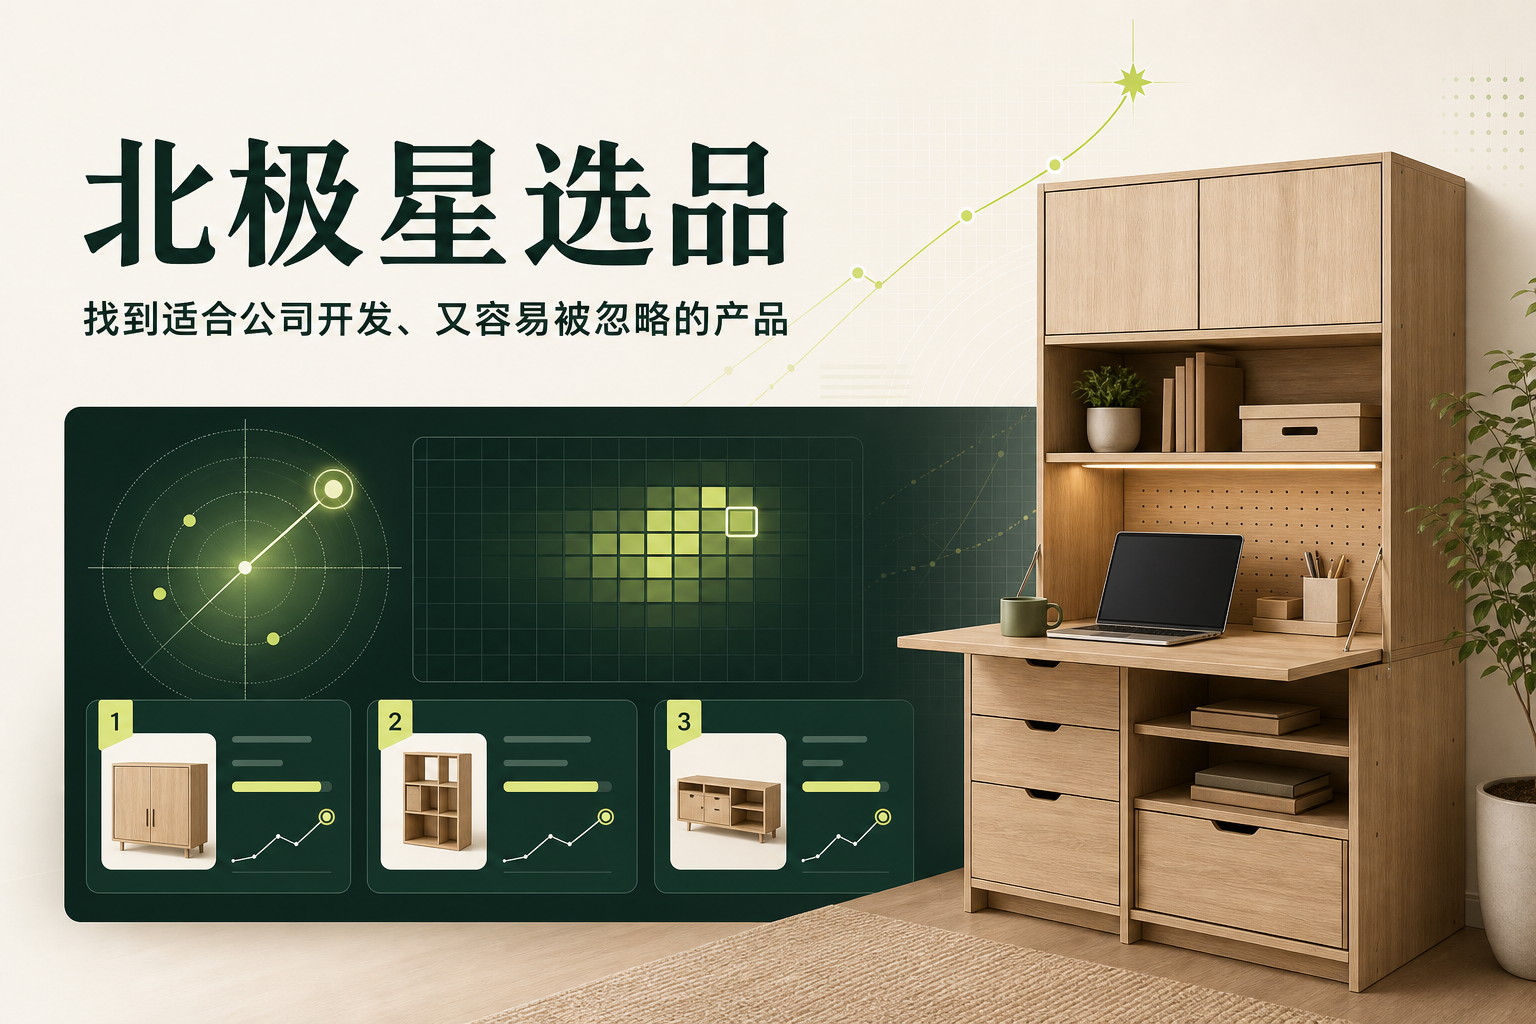
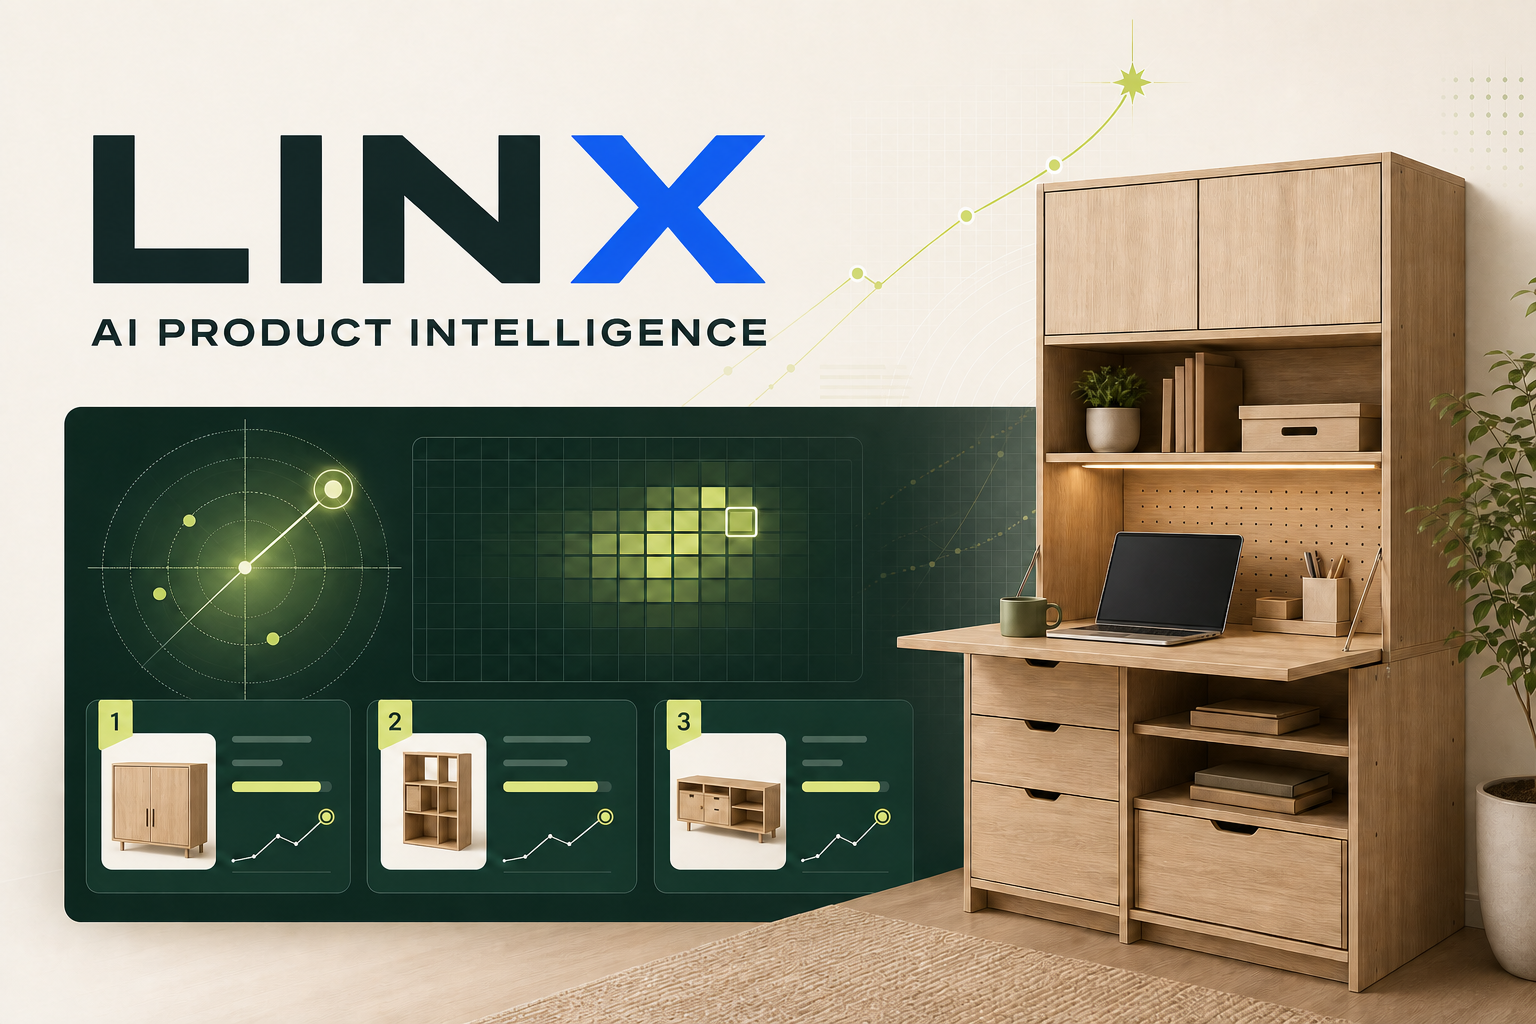
Rebrand product workspace as LINX

diff --git a/app/globals.css b/app/globals.css
@@ -1,15 +1,15 @@
-:root { --ink:#17211e; --muted:#6c7771; --paper:#f5f5ef; --line:#dce2d9; --green:#196b4f; --lime:#d8eb9a; --amber:#e9b84c; --red:#bf5a4d; }
+:root { --ink:#17221f; --muted:#687570; --paper:#f6f5f0; --line:#d9e1dd; --green:#1d302b; --signal:#2f7df4; --signal-soft:#eaf2ff; --lime:#dfe9d4; --wood:#c9a97c; --amber:#d9a441; --red:#b9554a; }
 * { box-sizing:border-box; }
-body { margin:0; background:var(--paper); color:var(--ink); font-family:"Microsoft YaHei","PingFang SC",Arial,sans-serif; }
+body { margin:0; background:radial-gradient(circle at 86px 72px,rgba(47,125,244,.07) 0 1px,transparent 1.5px),linear-gradient(135deg,rgba(201,169,124,.07),transparent 38%),var(--paper); background-size:24px 24px,100% 100%,auto; color:var(--ink); font-family:Inter,"Microsoft YaHei","PingFang SC",Arial,sans-serif; }
 button,input,select,textarea { font:inherit; }
 main { max-width:1420px; margin:auto; padding:32px; }
 header { display:flex; align-items:flex-end; justify-content:space-between; padding:20px 0 32px; }
-.eyebrow { color:var(--green); letter-spacing:.12em; font-size:11px; font-weight:800; }
-h1,h2,h3,p { margin-top:0; } h1 { font-size:40px; margin:6px 0; letter-spacing:-.07em; } h2 { font-size:28px; letter-spacing:-.05em; margin:8px 0; } h3 { font-size:17px; line-height:1.45; margin:8px 0; } p { color:var(--muted); line-height:1.55; }
-.header-score { background:var(--ink); color:white; border-radius:14px; padding:15px 22px; min-width:180px; display:flex; gap:12px; align-items:center; }.header-score b{font-size:26px;color:var(--lime)}.header-score span{font-size:12px;color:#c8d1c6}
-nav { border-bottom:1px solid var(--line); display:flex; gap:22px; margin-bottom:24px; } nav button { background:transparent;border:0;padding:0 0 14px;color:var(--muted);cursor:pointer;font-weight:700;border-radius:0;} nav button.active{color:var(--green);border-bottom:3px solid var(--green)} nav em{display:inline-flex;align-items:center;justify-content:center;margin-left:6px;min-width:19px;height:19px;padding:0 5px;border-radius:99px;background:#fde7e4;color:#a94d42;font-size:10px;font-style:normal}
-button,.file { cursor:pointer; border:1px solid var(--line); border-radius:8px; background:white; padding:10px 13px; color:var(--ink); font-weight:700; } button:hover,.file:hover { border-color:var(--green); } .primary { background:var(--green); color:white; border-color:var(--green); }.file input{display:none}
-.hero,.panel { background:white; border:1px solid var(--line); border-radius:16px; }.hero { padding:30px; display:flex; justify-content:space-between; align-items:center; }.tag{background:var(--lime);padding:5px 9px;border-radius:4px;font-size:12px;font-weight:800}.hero p{margin-bottom:0}
+.eyebrow { color:var(--signal); letter-spacing:.16em; font-size:10px; font-weight:800; }
+h1,h2,h3,p { margin-top:0; } h1 { font-size:44px; margin:6px 0; letter-spacing:-.06em; } h1.brand{font-family:Arial,sans-serif;font-weight:900;letter-spacing:.08em}h1.brand span{color:var(--signal);text-shadow:0 0 22px rgba(47,125,244,.2)} h2 { font-size:28px; letter-spacing:-.05em; margin:8px 0; } h3 { font-size:17px; line-height:1.45; margin:8px 0; } p { color:var(--muted); line-height:1.55; }
+.header-score { background:linear-gradient(135deg,var(--ink),#253d36); color:white; border-radius:12px; padding:15px 22px; min-width:180px; display:flex; gap:12px; align-items:center;box-shadow:0 12px 32px rgba(23,34,31,.14) }.header-score b{font-size:26px;color:#72a9ff}.header-score span{font-size:12px;color:#d4ded9}
+nav { border-bottom:1px solid var(--line); display:flex; gap:22px; margin-bottom:24px; } nav button { background:transparent;border:0;padding:0 0 14px;color:var(--muted);cursor:pointer;font-weight:700;border-radius:0;} nav button.active{color:var(--ink);border-bottom:3px solid var(--signal)} nav em{display:inline-flex;align-items:center;justify-content:center;margin-left:6px;min-width:19px;height:19px;padding:0 5px;border-radius:99px;background:var(--signal-soft);color:var(--signal);font-size:10px;font-style:normal}
+button,.file { cursor:pointer; border:1px solid var(--line); border-radius:8px; background:white; padding:10px 13px; color:var(--ink); font-weight:700; transition:border-color .18s,box-shadow .18s,transform .18s } button:hover,.file:hover { border-color:var(--signal);box-shadow:0 0 0 3px rgba(47,125,244,.08) } button:focus-visible,.file:focus-within,input:focus-visible,select:focus-visible,textarea:focus-visible{outline:2px solid var(--signal);outline-offset:2px}.primary { background:var(--ink); color:white; border-color:var(--ink);box-shadow:0 8px 18px rgba(23,34,31,.12) }.primary:hover{background:#253d36;border-color:#253d36;transform:translateY(-1px)}.file input{display:none}
+.hero,.panel { background:rgba(255,255,255,.9); border:1px solid var(--line); border-radius:14px;box-shadow:0 12px 34px rgba(23,34,31,.055);backdrop-filter:blur(10px) }.hero { padding:30px; display:flex; justify-content:space-between; align-items:center;position:relative;overflow:hidden}.hero:after{content:"";position:absolute;right:-70px;top:-90px;width:240px;height:240px;border:1px solid rgba(47,125,244,.12);border-radius:50%;box-shadow:0 0 0 28px rgba(47,125,244,.035),0 0 0 56px rgba(47,125,244,.025);pointer-events:none}.tag{background:var(--signal-soft);color:#245fb9;padding:5px 9px;border-radius:4px;font-size:12px;font-weight:800}.hero p{margin-bottom:0}
 .filters { padding:16px 0 10px; display:flex; flex-wrap:wrap; gap:8px; align-items:center; }.filters input,.filters select,.filters label input,.threshold input { border:1px solid var(--line);border-radius:7px;padding:9px;background:white; }.filters > input{min-width:235px;flex:1}.filters label{font-size:12px;color:var(--muted);display:flex;gap:5px;align-items:center}.filters label input{width:72px}.quiet{background:transparent;color:var(--muted)}
 .cards { display:grid; grid-template-columns:repeat(3,minmax(0,1fr)); gap:16px; align-items:start }.card{position:relative;background:white;border:1px solid var(--line);border-radius:15px;overflow:hidden;display:grid;grid-template-columns:148px 1fr;box-shadow:0 1px 2px rgba(23,33,30,.04);transition:border-color .2s,box-shadow .2s,transform .2s}.card:hover,.card:focus-within,.card:focus{border-color:#aebcb2;box-shadow:0 12px 30px rgba(23,33,30,.12);transform:translateY(-2px);outline:none}.card.selected{border-color:var(--green);box-shadow:0 0 0 2px rgba(25,107,79,.12)}.card-body{padding:16px 16px 13px;min-width:0}.card-top,.card-bottom{display:flex;align-items:center;justify-content:space-between;gap:8px}.score{font-size:25px;line-height:.8;text-align:right}.score small{display:block;font-size:9px;color:var(--muted);font-weight:500;margin-top:6px}.score.good{color:var(--green)}.category,.asin{font-size:11px;color:var(--muted)}.card h3{min-height:47px;margin:5px 0 2px}.card h3 a,.card h3>span{color:var(--ink);text-decoration:none;display:-webkit-box;-webkit-line-clamp:2;-webkit-box-orient:vertical;overflow:hidden}.card h3 a:hover{text-decoration:underline;color:var(--green)}.external{font-size:11px;color:var(--green);margin-left:4px}.risk{font-size:11px;font-weight:800;padding:4px 7px;border-radius:999px;display:inline-block;width:max-content}.risk-低{background:#e2f1e8;color:#277353}.risk-中{background:#fff3d5;color:#9b6815}.risk-高{background:#fde7e4;color:#a94d42}.meter{height:5px;background:#edf0eb;border-radius:9px;margin:10px 0}.meter i{height:100%;background:var(--green);display:block;border-radius:9px}.opportunity{font-size:12px;margin:0 0 6px;color:var(--ink)}.reason{font-size:11px;margin-bottom:8px}.card-bottom{font-size:10px;color:var(--muted);padding-top:9px;border-top:1px solid #edf0eb}.card-bottom span{overflow:hidden;text-overflow:ellipsis;white-space:nowrap}.card-bottom button,.link,.danger{padding:0;border:0;background:transparent;font-size:12px;color:var(--green);white-space:nowrap}.danger{color:var(--red);margin-left:10px}.empty{padding:50px;background:white;border-radius:12px;color:var(--muted);grid-column:1/-1;text-align:center}.empty b,.empty span{display:block}.empty b{color:var(--ink);margin-bottom:6px}
 .product-visual{position:relative;min-height:100%;background:linear-gradient(145deg,#f1f2ec,#e6ebe3);display:flex;align-items:center;justify-content:center;overflow:hidden;color:#b7c0b6}.product-visual>span{font-size:52px;transform:rotate(-8deg)}.product-visual img{position:absolute;inset:0;width:100%;height:100%;object-fit:contain;background:white;padding:8px}.product-visual small{position:absolute;bottom:10px;font-size:9px;color:#939d94}.card-select{position:absolute;z-index:2;left:9px;top:9px;display:flex;gap:6px;align-items:center;pointer-events:none}.card-select>*{pointer-events:auto}.card-select label{width:27px;height:27px;display:grid;place-items:center;background:rgba(255,255,255,.94);border:1px solid var(--line);border-radius:7px}.heart{width:30px;height:30px;padding:0;border-radius:50%;background:rgba(255,255,255,.94);color:#a7aea9;font-size:16px;line-height:1}.heart:hover,.heart.active{border-color:#d96960;color:#d94f47;background:#fff5f4}.grade{font-size:28px;line-height:.85;text-align:center;font-weight:900}.grade small{display:block;font-size:9px;color:var(--muted);font-weight:500;margin-top:6px;white-space:nowrap}.grade-A{color:#14734f}.grade-B{color:#4c7c38}.grade-C{color:#a26a14}.grade-D{color:#a94d42}.quick-stats{display:grid;grid-template-columns:repeat(4,1fr);gap:4px;margin-top:10px;padding:9px 0;border-top:1px solid #edf0eb}.quick-stats div{min-width:0}.quick-stats b,.quick-stats span{display:block;white-space:nowrap;overflow:hidden;text-overflow:ellipsis}.quick-stats b{font-size:13px}.quick-stats span{font-size:9px;color:var(--muted);margin-top:2px}.quick-stats .up{color:var(--green)}.card-details{max-height:0;opacity:0;overflow:hidden;transition:max-height .25s ease,opacity .2s ease}.card:hover .card-details,.card:focus .card-details,.card:focus-within .card-details{max-height:210px;opacity:1}.detail-grid{display:grid;grid-template-columns:1fr 1fr;gap:6px 10px;padding:10px 0 2px;border-top:1px solid #edf0eb}.detail-grid span{font-size:10px;color:var(--muted)}.detail-grid b{display:block;color:var(--ink);font-size:11px}
@@ -18,4 +18,5 @@ button,.file { cursor:pointer; border:1px solid var(--line); border-radius:8px; 
 .modal-backdrop{position:fixed;inset:0;z-index:20;background:rgba(12,20,17,.58);display:grid;place-items:center;padding:24px}.compare-modal{width:min(1160px,100%);max-height:88vh;overflow:auto;background:var(--paper);border-radius:18px;padding:24px;box-shadow:0 24px 80px rgba(0,0,0,.3)}.compare-head{display:flex;justify-content:space-between;align-items:flex-start}.compare-grid{display:grid;grid-template-columns:130px repeat(4,minmax(180px,1fr));background:white;border:1px solid var(--line);border-radius:13px;overflow:auto}.compare-labels,.compare-column{display:grid;grid-template-rows:190px repeat(6,58px)}.compare-labels{background:#f1f3ee;color:var(--muted);font-size:11px}.compare-labels>*{padding:15px;border-bottom:1px solid var(--line);display:flex;align-items:center}.compare-column>*{padding:13px;border-left:1px solid var(--line);border-bottom:1px solid var(--line);display:flex;align-items:center}.compare-column>div{display:block}.compare-column h3{font-size:12px;margin:7px 0 2px}.compare-column h3 a{color:var(--ink);text-decoration:none}.compare-column .product-visual{height:105px;min-height:0;border-radius:8px}.compare-column>.grade{justify-content:center;font-size:28px}.table-wrap .grade{font-size:17px}.grade-summary{display:flex;gap:8px}.grade-summary button{min-width:66px;padding:9px 12px;display:flex;align-items:center;gap:8px}.grade-summary .grade{font-size:20px}.grade-summary span{font-size:11px;color:var(--muted)}.grade-guide{display:grid;grid-template-columns:repeat(4,1fr);gap:10px;margin:20px 0}.grade-guide .grade{background:#f7f8f4;border:1px solid var(--line);border-radius:10px;padding:15px}.grade-guide small{margin-top:8px}.actions select{border:1px solid var(--line);border-radius:8px;background:white;padding:9px;color:var(--ink)}
 .panel{padding:26px}.section-title{display:flex;justify-content:space-between;gap:18px;align-items:flex-start}.actions{display:flex;flex-wrap:wrap;gap:8px}.table-wrap{overflow:auto;margin-top:18px}table{width:100%;border-collapse:collapse;font-size:13px}th{text-align:left;color:var(--muted);font-size:11px;text-transform:uppercase;letter-spacing:.06em}td,th{padding:13px 9px;border-bottom:1px solid #edf0eb;white-space:nowrap}td:first-child span{display:block;color:var(--muted);font-size:12px;max-width:350px;overflow:hidden;text-overflow:ellipsis}.form{display:grid;grid-template-columns:repeat(3,1fr);gap:13px;margin-top:20px}.form label{font-size:12px;color:var(--muted);font-weight:700}.form input,.form select,.form textarea{display:block;width:100%;margin-top:5px;border:1px solid var(--line);border-radius:7px;padding:9px;color:var(--ink);font-weight:400}.form textarea{min-height:86px;resize:vertical}.form .wide{grid-column:span 3}.form-actions{grid-column:1/-1;display:flex;justify-content:flex-end;gap:8px}
 .settings{max-width:900px}.weight-grid{margin-top:22px;display:grid;grid-template-columns:1fr 1fr;gap:12px}.weight{border:1px solid var(--line);border-radius:10px;padding:14px;display:flex;align-items:center;gap:10px}.weight span{flex:1;font-weight:800}.weight small{display:block;color:var(--muted);font-weight:400;margin-top:4px}.weight input{width:55px;border:0;border-bottom:1px solid var(--line);font-size:20px;text-align:right}.threshold{margin:22px 0;display:flex;align-items:center;gap:20px}.threshold label{font-weight:800}.threshold span{color:var(--muted);font-size:13px}.backup{display:flex;justify-content:space-between;align-items:center;margin-top:22px}.toast{position:fixed;right:20px;bottom:20px;background:var(--ink);color:white;padding:13px 16px;border-radius:9px;z-index:5}.toast button{margin-left:12px;background:transparent;color:white;border:0;padding:0}
+.filters input,.filters select,.filters label input,.threshold input,.actions select,.form input,.form select,.form textarea{background:rgba(255,255,255,.94)}.bulk-bar{background:rgba(255,255,255,.72);box-shadow:0 8px 24px rgba(23,34,31,.035)}.card{border-radius:12px;box-shadow:0 8px 24px rgba(23,34,31,.055)}.card:hover,.card:focus-within,.card:focus{border-color:#b9c9c3;box-shadow:0 16px 38px rgba(23,34,31,.12)}.card.selected{border-color:var(--signal);box-shadow:0 0 0 2px rgba(47,125,244,.13),0 16px 38px rgba(23,34,31,.1)}.product-visual{background:linear-gradient(145deg,#f1eee7,#e7e4dc)}.external,.card-bottom button,.link,.table-product a:hover{color:var(--signal)}.meter{background:#e9edf0}.meter i{background:linear-gradient(90deg,var(--signal),#79aaff)}.potential-badge{background:#e7eee0;color:#4f6d42}.data-status-ok{background:#eef3ef;color:#4e6d60}.grade-summary button{background:rgba(255,255,255,.94)}.grade-guide .grade{background:linear-gradient(145deg,#fafaf7,#f1f2ed)}
 @media(max-width:1050px){.cards{grid-template-columns:1fr 1fr}.card{grid-template-columns:130px 1fr}} @media(max-width:900px){main{padding:18px}.hero,.section-title,.backup,header{align-items:flex-start;flex-direction:column}.form{grid-template-columns:1fr 1fr}.form .wide{grid-column:span 2}.bulk-bar{align-items:flex-start;flex-wrap:wrap}.bulk-actions{width:100%;margin-left:0;overflow:auto}.compare-grid{grid-template-columns:110px repeat(4,190px)}} @media(max-width:620px){nav{gap:14px;overflow:auto}.cards,.form,.weight-grid{grid-template-columns:1fr}.card{grid-template-columns:115px 1fr}.form .wide{grid-column:span 1}h1{font-size:32px}.panel,.hero{padding:18px}.quick-stats{grid-template-columns:1fr 1fr}.modal-backdrop{padding:8px}.compare-modal{padding:16px}.header-score{display:none}}

diff --git a/app/page.tsx b/app/page.tsx
@@ -64,7 +64,7 @@ export default function Home(){
  const downloadTemplate=async()=>{const XLSX=await import("xlsx");const b=XLSX.utils.book_new();XLSX.utils.book_append_sheet(b,XLSX.utils.aoa_to_sheet([fields.map(f=>labels[f]),fields.map(f=>samples[0][f])]),"竞品数据");XLSX.writeFile(b,"家具选品导入模板.xlsx")};
  const importProducts=async(e:ChangeEvent<HTMLInputElement>)=>{const file=e.target.files?.[0];if(!file)return;try{const XLSX=await import("xlsx");const wb=XLSX.read(await file.arrayBuffer());const sheet=wb.Sheets[wb.SheetNames[0]];const raw=XLSX.utils.sheet_to_json<Record<string,unknown>>(sheet,{defval:""});attachSheetImageUrls(sheet,raw,XLSX);const isSellerSprite=Object.prototype.hasOwnProperty.call(raw[0]??{},"商品标题");const importedAt=new Date().toISOString();const incoming=(isSellerSprite?raw.map(sellerProduct):raw.map(r=>Object.fromEntries(fields.map(f=>[f,f==="imageUrl"?imageFromRow(r):r[labels[f]]??r[f]??""])) as unknown as Product)).filter(p=>p.asin&&p.title).map(p=>({...p,importedAt,price:Number(p.price)||0,rating:Number(p.rating)||0,reviews:Number(p.reviews)||0,bsr:Number(p.bsr)||99999,weight:Number(p.weight)||0,monthlySales:Number(p.monthlySales)||0,launchDays:Number(p.launchDays)||9999,salesGrowth:Number(p.salesGrowth)||0,packageGrossKg:Number(p.packageGrossKg)||0,estimatedMargin:margin(p.estimatedMargin),priceUplift:Number(p.priceUplift)||3,complexity:Number(p.complexity)||3,differentiation:Number(p.differentiation)||3,returnRisk:["低","中","高"].includes(String(p.returnRisk))?p.returnRisk:"中" as Risk}));if(!incoming.length)throw Error();const imageCount=incoming.filter(p=>p.imageUrl).length;if(importMode==="replace"){if(!window.confirm(`将用 ${incoming.length} 条新数据替换当前 ${products.length} 条产品，收藏和已选记录也会清空。确定继续吗？`))return;setProducts(incoming);setFavorites(new Set());setSelected(new Set())}else setProducts(old=>{const map=new Map(old.map(p=>[p.asin,p]));incoming.forEach(p=>map.set(p.asin,p));return[...map.values()]});setNotice(`已${importMode==="replace"?"替换为":"追加"} ${incoming.length} 条产品，其中自动识别主图 ${imageCount} 张，导入时间 ${formatImportedAt(importedAt)}。`)}catch{setNotice("导入失败：请使用模板列名，并确认 ASIN 和英文标题已填写。")}finally{e.target.value=""}};
  const save=()=>{if(!editing?.asin||!editing.title)return setNotice("请至少填写 ASIN 和英文标题。");setProducts(old=>{const i=old.findIndex(p=>p.asin===editing.asin);return i<0?[editing,...old]:old.map((p,n)=>n===i?editing:p)});setEditing(null);setNotice("记录已保存。")};
- return <><main><header><div><span className="eyebrow">AMAZON US · INTERIOR FURNITURE</span><h1>北极星选品</h1><p>128 个真实 ASIN，按公司适配、市场信号与物流风险分为 A—D 四档。</p></div><div className="header-score"><b>{recommended.length}</b><span>个 A / B 档机会</span></div></header>
+ return <><main><header><div><span className="eyebrow">AI PRODUCT INTELLIGENCE · AMAZON US</span><h1 className="brand">LIN<span>X</span></h1><p>家具机会识别工作台 · 128 个真实 ASIN，按适配、市场与物流风险分为 A—D 四档。</p></div><div className="header-score"><b>{recommended.length}</b><span>个 A / B 档机会</span></div></header>
  <nav>{["机会筛选","潜力款","候选 ASIN","不推荐","数据管理","收藏夹","推荐规则"].map(x=><button key={x} className={tab===x?"active":""} onClick={()=>setTab(x)}>{x}{x==="潜力款"&&potentialRows.length>0?<em>{potentialRows.length}</em>:x==="不推荐"?<em>{rejectedRows.length}</em>:x==="收藏夹"&&favorites.size>0?<em>{favorites.size}</em>:null}</button>)}</nav>{notice&&<div className="toast">{notice}<button onClick={()=>setNotice("")}>×</button></div>}
  {tab==="机会筛选"&&<><section className="hero"><div><span className="tag">真实数据 · 两份表已合并</span><h2>只看一套明确的开发结论</h2><p>A = 值得开发，B = 继续调研，C = 暂缓，D = 不推荐；数据不完整会单独标记“数据待补”并限制等级。</p></div><div className="grade-summary">{(["A","B","C","D"] as Grade[]).map(grade=><button key={grade} onClick={()=>grade==="D"?setTab("不推荐"):setFilters({...filters,grade})}><b className={`grade grade-${grade}`}>{grade}</b><span>{gradeLabels[grade]} · {gradeCounts[grade]} 个</span></button>)}</div></section><section className="filters"><input placeholder="搜索 ASIN 或英文标题" value={filters.search} onChange={e=>setFilters({...filters,search:e.target.value})}/><select value={filters.category} onChange={e=>setFilters({...filters,category:e.target.value})}>{cats.map(x=><option key={x}>{x}</option>)}</select><select value={filters.grade} onChange={e=>setFilters({...filters,grade:e.target.value})}>{["全部","A","B","C"].map(x=><option key={x}>{x==="全部"?"全部推荐等级":`${x} · ${gradeLabels[x as Grade]}`}</option>)}</select><select value={filters.risk} onChange={e=>setFilters({...filters,risk:e.target.value})}>{["全部","低","中","高"].map(x=><option key={x}>{x==="全部"?"全部风险":x+"风险"}</option>)}</select><label>最低月销 <input type="number" value={filters.minSales||""} placeholder="不限" onChange={e=>setFilters({...filters,minSales:Number(e.target.value)||0})}/></label><label>最大重量(lb) <input type="number" placeholder="不限" value={filters.maxWeight===999?"":filters.maxWeight} onChange={e=>setFilters({...filters,maxWeight:Number(e.target.value)||999})}/></label><select value={filters.sort} onChange={e=>setFilters({...filters,sort:e.target.value})}><option value="grade">推荐等级排序</option><option value="sales">月销量排序</option><option value="growth">增长率排序</option><option value="margin">利润率排序</option></select><button className="quiet" onClick={()=>setFilters({search:"",category:"全部",risk:"全部",grade:"全部",maxWeight:999,minSales:0,sort:"grade"})}>重置</button></section><BulkBar data={opportunityRows} selected={selected} selectVisible={selectVisible} favoriteSelected={favoriteSelected} exportSelected={()=>exportXlsx(selectedRows,"已选产品")} compare={()=>setCompareOpen(true)}/><Cards rows={opportunityRows} edit={p=>{setEditing(p);setTab("数据管理")}} selected={selected} favorites={favorites} toggleSelected={toggleSelected} toggleFavorite={toggleFavorite}/></>}
  {tab==="潜力款"&&<section className="panel"><div className="section-title"><div><span className="eyebrow">EARLY OPPORTUNITIES</span><h2>潜力款</h2><p>同时满足新上架、销量处于早期验证、评论壁垒较低，并出现增长、造型或改款信号的产品。</p></div><span className="tag">{potentialRows.length} 个潜力信号</span></div><BulkBar data={potentialRows} selected={selected} selectVisible={selectVisible} favoriteSelected={favoriteSelected} exportSelected={()=>exportXlsx(selectedRows,"潜力款已选")} compare={()=>setCompareOpen(true)}/><Cards rows={potentialRows} edit={p=>{setEditing(p);setTab("数据管理")}} selected={selected} favorites={favorites} toggleSelected={toggleSelected} toggleFavorite={toggleFavorite}/></section>}

diff --git a/app/layout.tsx b/app/layout.tsx
@@ -7,8 +7,8 @@ export async function generateMetadata(): Promise<Metadata> {
   const host = requestHeaders.get("x-forwarded-host") ?? requestHeaders.get("host") ?? "localhost:3000";
   const protocol = requestHeaders.get("x-forwarded-proto") ?? (host.startsWith("localhost") ? "http" : "https");
   const image = `${protocol}://${host}/og.png`;
-  const title = "北极星选品｜美国站室内家具";
-  const description = "找到适合公司开发、又容易被忽略的亚马逊家具机会。";
+  const title = "LINX｜AI Product Intelligence";
+  const description = "面向亚马逊美国站家具开发的 AI 跨境选品工作台。";
   return {
     title,
     description,

diff --git a/README.md b/README.md
@@ -1,4 +1,4 @@
-# 北极星选品
+# LINX
 
 面向 Amazon 美国站家具产品开发的本地选品工具。支持直接导入卖家精灵 CSV/XLSX，结合市场、包装物流、利润预测、公司供应链与个人开发偏好，自动筛选值得跟进的产品机会。
 
